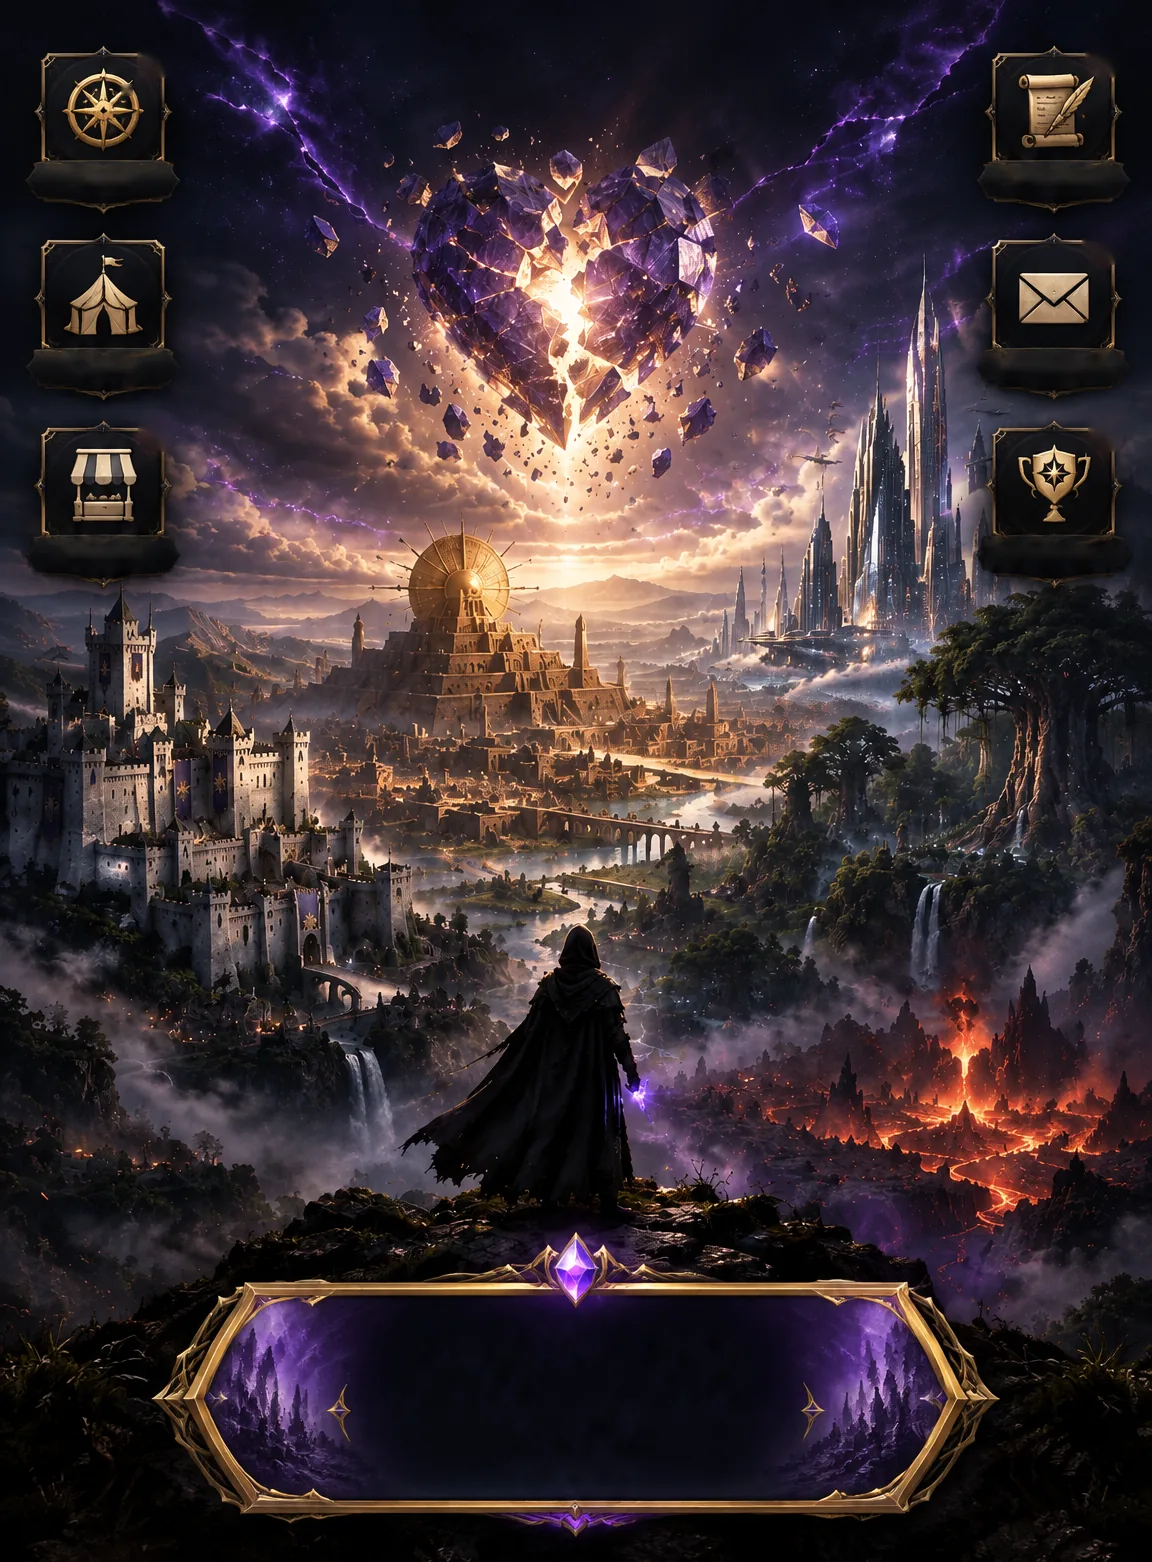
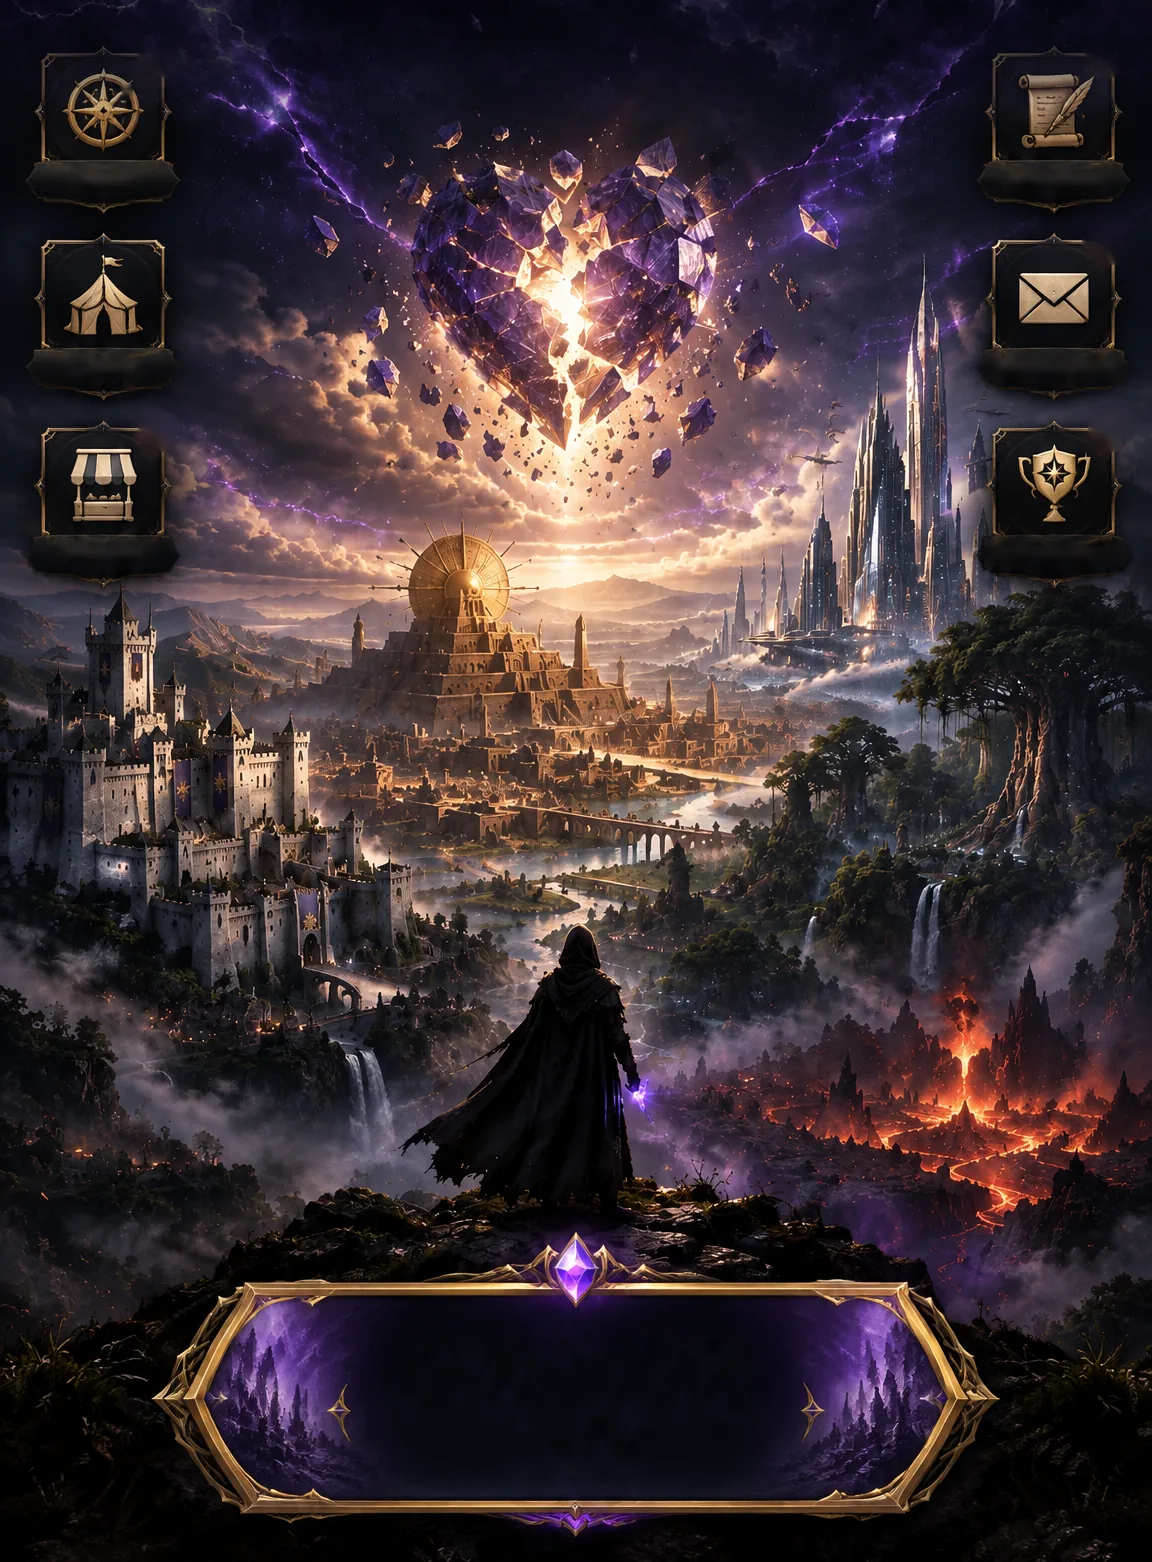
v1.72.2 : accueil, ciel prolongé au-dessus du décor (plus de bande noire sur les grands iPhone) (#119)
Claude-Session: https://claude.ai/code/session_01UFe4KkAhhm88BaEypYBpxf

diff --git a/src/styles/home2.css b/src/styles/home2.css
@@ -8,10 +8,10 @@
    les boutons et textes sont placés en % de l'image, la taille du texte suit la largeur (unités cqw). */
 .home { --serif-ui: 'Cormorant Garamond', Georgia, serif; font-variant-numeric: lining-nums; }
 .bottom-nav, .home .topbar, .home-stage { font-variant-numeric: lining-nums tabular-nums; }
-.home-sky { position: absolute; inset: 0; background: radial-gradient(ellipse at 50% 100%, #1b1430 0%, #0c0a14 55%, #07060b 100%); }
+.home-sky { position: absolute; inset: 0; background: #07060b; }
 .home-sky-motes { position: absolute; inset: 0 0 50% 0; opacity: 0.6; }
-.home-stage { position: absolute; z-index: 2; left: 0; right: 0; bottom: calc(var(--nav-h) + var(--sab)); aspect-ratio: 1152 / 1562; background-size: 100% 100%; background-repeat: no-repeat; container-type: inline-size;
-  -webkit-mask-image: linear-gradient(180deg, transparent 0, #000 7%); mask-image: linear-gradient(180deg, transparent 0, #000 7%); }
+.home-stage { position: absolute; z-index: 2; left: 0; right: 0; bottom: calc(var(--nav-h) + var(--sab)); aspect-ratio: 1152 / 1562; background-size: 100% 100%; background-repeat: no-repeat; container-type: inline-size; }
+.home-stage-sky { position: absolute; left: 0; right: 0; bottom: 100%; aspect-ratio: 1152 / 1012; background-size: 100% 100%; background-repeat: no-repeat; pointer-events: none; }
 .home-rift { position: absolute; left: 50%; top: 13%; width: 70%; height: 30%; transform: translate(-50%, -50%); background: radial-gradient(ellipse, rgba(190,140,255,0.22), transparent 70%); mix-blend-mode: screen; animation: heartPulse 5s ease-in-out infinite; pointer-events: none; }
 .reduced-motion .home-rift { animation: none; }
 @media (prefers-reduced-motion: reduce) { .home-rift { animation: none; } }

diff --git a/src/ui/screens/Home.tsx b/src/ui/screens/Home.tsx
@@ -1,4 +1,5 @@
 import stageArt from '../../assets/home/stage.webp';
+import stageSky from '../../assets/home/stage-sky.webp';
 import { wheelReady } from '../../game/wheel';
 import { Coach } from '../components/Coach';
 import { useGame } from '../../state/store';
@@ -51,6 +52,8 @@ export function Home() {
       <TopBar />
 
       <div className="home-stage" style={{ backgroundImage: `url(${stageArt})` }}>
+        {/* Ciel prolongé au-dessus de l'image (écrans plus hauts que la maquette, v1.72.2). */}
+        <div className="home-stage-sky" style={{ backgroundImage: `url(${stageSky})` }} aria-hidden />
         <div className="home-rift" aria-hidden />
         {spots.map((sp) => {
           const locked = !!sp.feature && !isUnlocked(save, sp.feature);

diff --git a/README.md b/README.md
@@ -4,7 +4,7 @@ RPG mobile de collection de héros au tour par tour, univers original mêlant fa
 science-fiction et civilisations antiques. Conçu pour iPhone, jouable **hors ligne**, **gratuit**,
 sans App Store ni serveur : c'est une application web progressive (PWA) qu'on installe depuis Safari.
 
-> État : **version 1.72.1** (Multijoueur : Arène réelle, clans et amis ; notifications) — histoire en 9 chapitres (90 niveaux, 4 difficultés), 88 héros, invocations, améliorations, maîtrises, équipement, marché, 7 donjons dont 4 d’équipement (15 étages), tour (100 étages), camp (butin d’absence), boss mondial, arène, missions, expéditions, un événement différent chaque semaine, comptes et classements en ligne.
+> État : **version 1.72.2** (Multijoueur : Arène réelle, clans et amis ; notifications) — histoire en 9 chapitres (90 niveaux, 4 difficultés), 88 héros, invocations, améliorations, maîtrises, équipement, marché, 7 donjons dont 4 d’équipement (15 étages), tour (100 étages), camp (butin d’absence), boss mondial, arène, missions, expéditions, un événement différent chaque semaine, comptes et classements en ligne.
 
 **Jouer : https://jeu-aeonfall.vercel.app/** (adresse principale, hébergée par Vercel). Secours : https://shisuiu.github.io/jeu/ (GitHub Pages). Voir [docs/ROADMAP.md](docs/ROADMAP.md).
 

diff --git a/docs/ROADMAP.md b/docs/ROADMAP.md
@@ -558,6 +558,10 @@
 - **Une musique par lieu** : Forge (lourde et grave), Sanctuaire (chœur), Tour (mystérieuse), Arène (martiale), Marché, Camp ; les boss gardent la leur
 - **Arène : correction** : depuis la v1.54, une défense dont l'équipement donnait plus de 3 % de bonus était écartée par erreur (les joueurs bien équipés n'apparaissaient presque jamais) ; plafond réaliste de 400 %, la vérification de puissance reste
 
+## ✅ Version 1.72.2 — Accueil : plus de bande noire sur les grands iPhone
+
+- Sur les téléphones plus hauts que la maquette (iPhone Pro Max, etc.), une grande bande noire restait entre la barre du haut et le décor. Le ciel d'orage est maintenant prolongé au-dessus de l'image (ciel peint assorti, fondu sans raccord), quelle que soit la hauteur de l'écran.
+
 ## ✅ Version 1.72.1 — Accueil identique à la maquette SpriteCook
 
 - **La maquette sert maintenant de décor** : son image (le Monde Cousu, le Lien de dos, les six cadres d'icônes peintes et le panneau orné de la Campagne) est utilisée telle quelle, textes effacés. Le jeu pose dessus, exactement aux mêmes endroits, les vrais boutons, les étiquettes, les points rouges et les textes de la campagne (chapitre, nom, étoiles). L'image suit la largeur de l'écran et le ciel se prolonge au-dessus.
